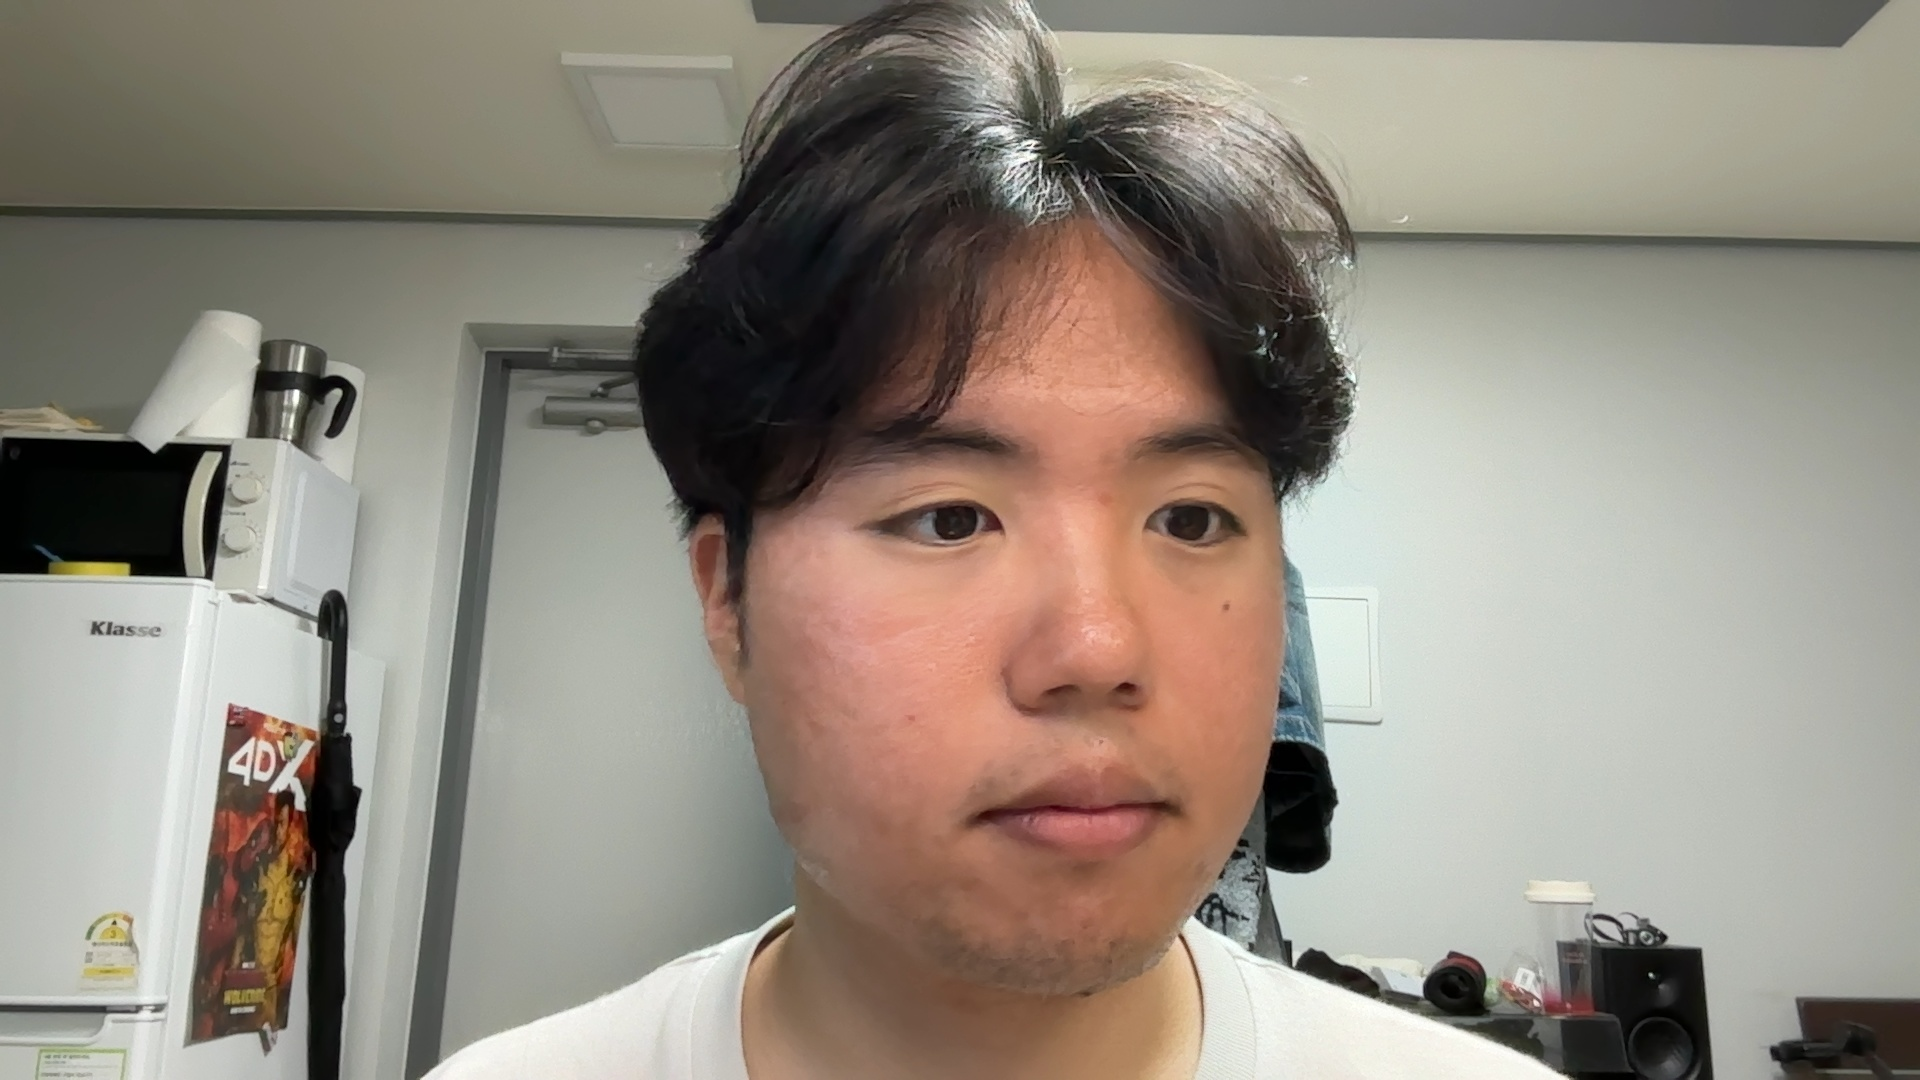
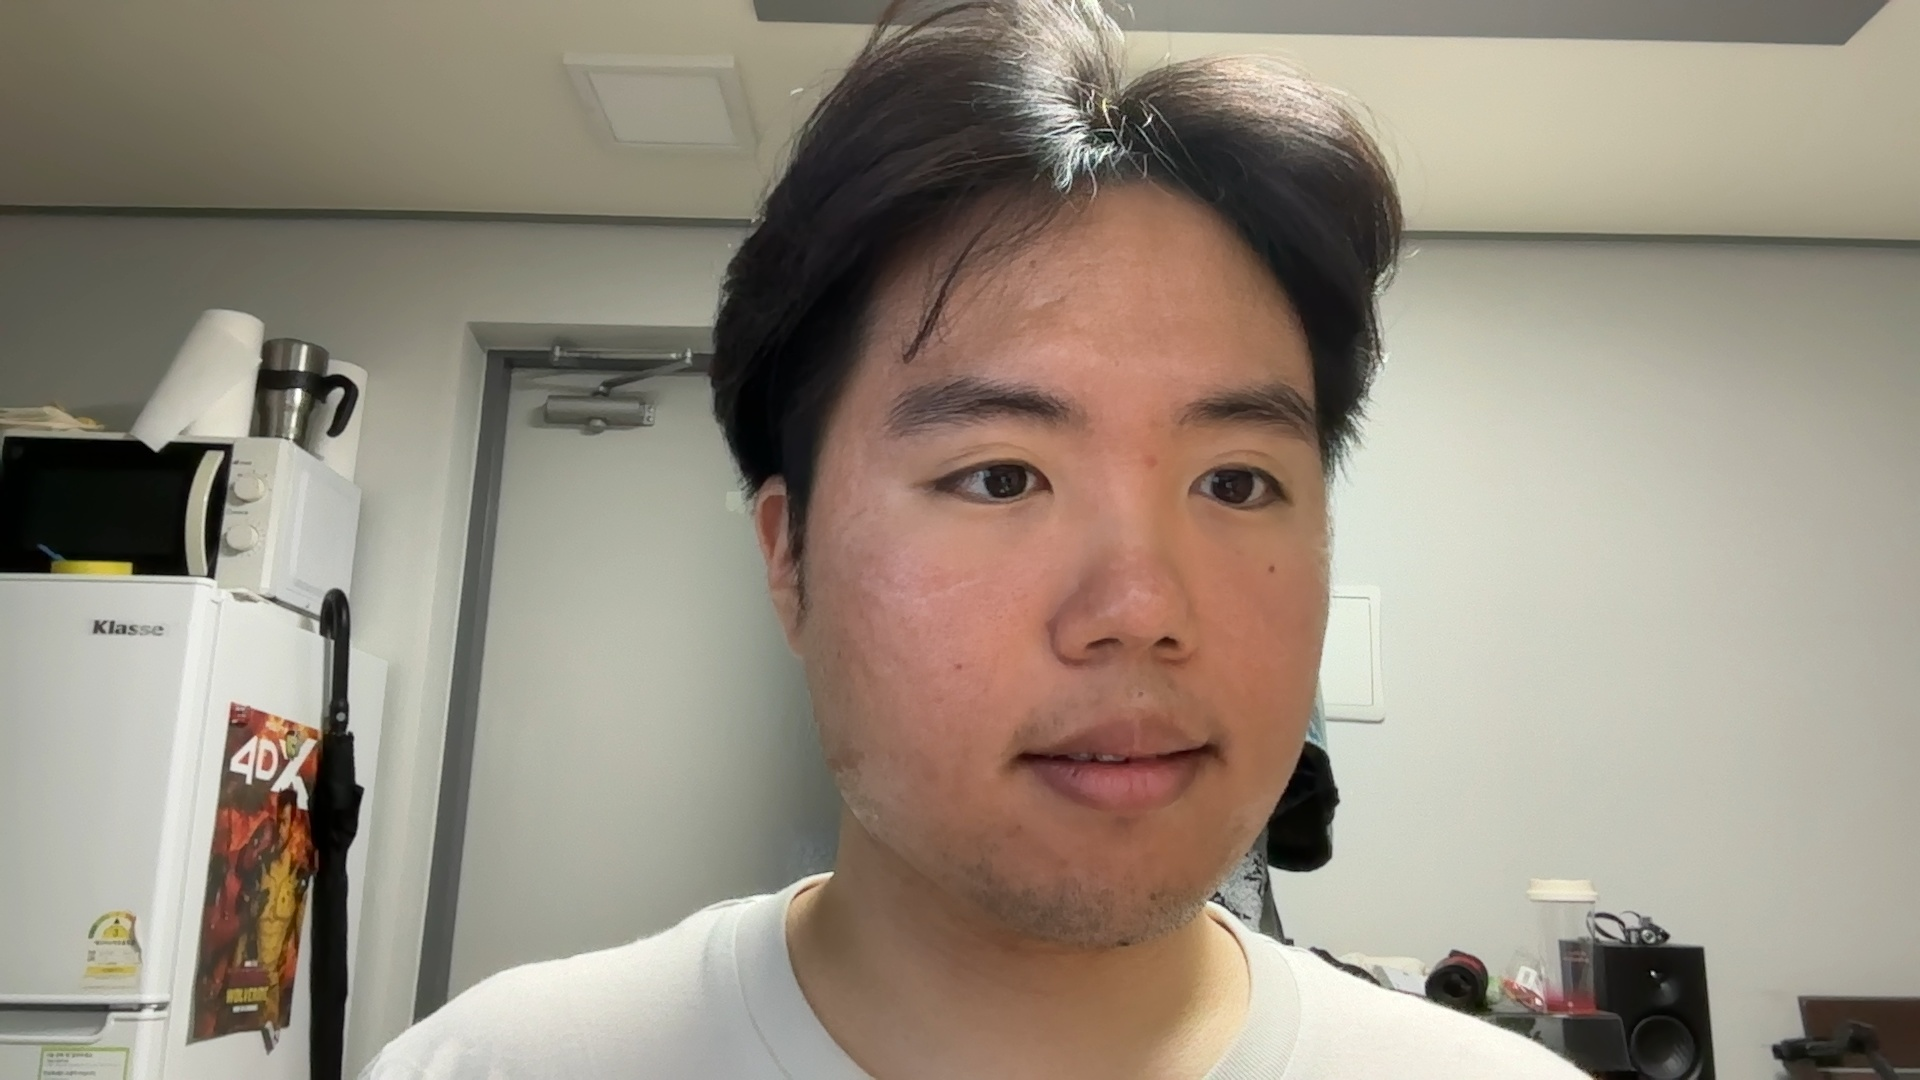
.

diff --git a/backEnd/face_Mesh.py b/backEnd/face_Mesh.py
@@ -1,50 +1,131 @@
 import cv2 as cv
 import mediapipe as mp
-
+from PIL import Image
+#MediaPipe 초기화
 mp_mesh=mp.solutions.face_mesh
 mp_drawing=mp.solutions.drawing_utils
 mp_styles=mp.solutions.drawing_styles
 
+#정지 이미지 읽기
+input_path = f'static/captured_clipping.jpg'
+image = cv.imread(input_path)
+
+#RGB 변환  why?-> openCV는 BRG순서로 읽지만 MediaPipe는 RGB순서로 읽는다.
+image = cv.cvtColor(image, cv.COLOR_BGR2RGB)
+
+#FaceMesh 객체 생성 why? -> 모델을 한번만 로딩하고 계속 재사용해서 매번 로딩되어 성능이 저하되는 일을 없앤다.
 #얼굴1개, 눈과 입의 랜드마크 더 정교하게, 얼굴 검출 신뢰도 0.5이상 일 땐 성공, 0.5이하 일 땐 실패
-mesh=mp_mesh.FaceMesh(max_num_faces=1, refine_landmarks=True, min_detection_confidence=0.5, min_tracking_confidence=0.5)
+with mp_mesh.FaceMesh(
+    static_image_mode=True, #정지 영상일 땐 꼭 True
+    max_num_faces=1,
+    refine_landmarks=True,
+    min_detection_confidence=0.5,
+    min_tracking_confidence=0.5
+)as mesh:
 
-cap=cv.VideoCapture(0)
-
-while True:
-    ret, frame = cap.read()
-    if not ret:
-        print("프레임 획득에 실패하여 루프를 나갑니다.")
-        break
-
-    res = mesh.process(cv.cvtColor(frame,cv.COLOR_BGR2RGB))
+    res = mesh.process(image)
 
     if res.multi_face_landmarks:
-        for landmarks in res.multi_face_landmarks:
-            mp_drawing.draw_landmarks(
-                image=frame,
-                landmark_list=landmarks,
-                connections=mp_mesh.FACEMESH_TESSELATION,
-                landmark_drawing_spec=None,
-                connection_drawing_spec=mp_styles.get_default_face_mesh_tesselation_style()
-            )
-            mp_drawing.draw_landmarks(
-                image=frame,
-                landmark_list=landmarks,
-                connections=mp_mesh.FACEMESH_CONTOURS,
-                landmark_drawing_spec=None,
-                connection_drawing_spec=mp_styles.get_default_face_mesh_contours_style()
-            )
-            mp_drawing.draw_landmarks(
-                image=frame,
-                landmark_list=landmarks,
-                connections=mp_mesh.FACEMESH_IRISES,
-                landmark_drawing_spec=None,
-                connection_drawing_spec=mp_styles.get_default_face_mesh_iris_connections_style()
-            )
+        h, w, _ = image.shape
+        face_landmarks = res.multi_face_landmarks[0]
+        #웃음 판단 지표
+        # 🎯 입꼬리 위치 추출
+        landmarks = face_landmarks.landmark
+        left_corner = landmarks[61]
+        right_corner = landmarks[291]
+        upper_lip = landmarks[13]
+        lower_lip = landmarks[14]
 
-    cv.imshow('MediaPipe Face Mesh',cv.flip(frame,1))
-    if cv.waitKey(5) == ord('q'):
-        break
+        lx, ly = int(left_corner.x * w), int (left_corner.y * h)
+        rx, ry = int(right_corner.x * w), int (right_corner.y * h)
+        ux, uy = int(upper_lip.x * w), int (upper_lip.y * h)
+        dx, dy = int(lower_lip.x * w), int (lower_lip.y * h)
 
-cap.release()
+        mouth_height = dy - uy
+        avg_corner_y = (ly + ry) / 2 #입꼬리의 중간값
+        center_y = (uy + dy) / 2    #입술에서 중간값
+
+        is_smiling = (avg_corner_y < center_y - 3) and (mouth_height > 5)
+        result_text = "Smiling" if is_smiling else "Not Smiling "
+
+
+        mp_drawing.draw_landmarks(
+            image=image,
+            landmark_list=face_landmarks,
+            connections=mp_mesh.FACEMESH_TESSELATION,
+            landmark_drawing_spec=None,
+            connection_drawing_spec=mp_styles.get_default_face_mesh_tesselation_style()
+        )
+        mp_drawing.draw_landmarks(
+            image=image,
+            landmark_list=face_landmarks,
+            connections=mp_mesh.FACEMESH_CONTOURS,
+            landmark_drawing_spec=None,
+            connection_drawing_spec=mp_styles.get_default_face_mesh_contours_style()
+        )
+        mp_drawing.draw_landmarks(
+            image=image,
+            landmark_list=face_landmarks,
+            connections=mp_mesh.FACEMESH_IRISES,
+            landmark_drawing_spec=None,
+            connection_drawing_spec=mp_styles.get_default_face_mesh_iris_connections_style()
+        )
+
+        # 결과 텍스트 출력
+        cv.putText(image, result_text, (30, 50), cv.FONT_HERSHEY_SIMPLEX, 1.2, (0, 255, 0), 3)
+
+
+#MediaPipe에서 처리한 사진은 RGB순이니깐 이미지를 저장할 땐 원래 BGR순으로 바꿔야 얼굴색이 재대로 나온다.
+image = cv.cvtColor(image, cv.COLOR_RGB2BGR)
+
+#이미지 저장
+output_path = f'static/clipped_FaceMesh.jpg'
+cv.imwrite(output_path, image)
+
+#이미지 확인용
+cv.imshow('Face Mesh', image)
+cv.waitKey(0)
 cv.destroyAllWindows()
+
+
+# 동적영상 일 때
+#cap=cv.VideoCapture(0)
+
+#while True:
+    #ret, frame = cap.read()
+    # if not ret:
+    #     print("프레임 획득에 실패하여 루프를 나갑니다.")
+    #     break
+
+#     res = mesh.process(cv.cvtColor(frame,cv.COLOR_BGR2RGB))
+#
+#     if res.multi_face_landmarks:
+#         for landmarks in res.multi_face_landmarks:
+#             mp_drawing.draw_landmarks(
+#                 image=frame,
+#                 landmark_list=landmarks,
+#                 connections=mp_mesh.FACEMESH_TESSELATION,
+#                 landmark_drawing_spec=None,
+#                 connection_drawing_spec=mp_styles.get_default_face_mesh_tesselation_style()
+#             )
+#             mp_drawing.draw_landmarks(
+#                 image=frame,
+#                 landmark_list=landmarks,
+#                 connections=mp_mesh.FACEMESH_CONTOURS,
+#                 landmark_drawing_spec=None,
+#                 connection_drawing_spec=mp_styles.get_default_face_mesh_contours_style()
+#             )
+#             mp_drawing.draw_landmarks(
+#                 image=frame,
+#                 landmark_list=landmarks,
+#                 connections=mp_mesh.FACEMESH_IRISES,
+#                 landmark_drawing_spec=None,
+#                 connection_drawing_spec=mp_styles.get_default_face_mesh_iris_connections_style()
+#             )
+#
+#     cv.imshow('MediaPipe Face Mesh',cv.flip(frame,1))
+#     if cv.waitKey(5) == ord('q'):
+#         break
+#
+# cap.release()
+# cv.destroyAllWindows()

diff --git a/backEnd/facesmoothing_integration.py b/backEnd/facesmoothing_integration.py
@@ -1,0 +1,38 @@
+# backEnd/facesmoothing_integration.py
+
+import os
+import sys
+
+# AutomaticFaceSmoothing 모듈 경로 추가
+sys.path.append(os.path.abspath(os.path.join(os.path.dirname(__file__), '..', 'AutomaticFaceSmoothing')))
+
+from facesmoothing import smoothing
+
+def apply_face_smoothing(input_path: str, d=9, sigma_color=75, sigma_space=75, extension=".jpg") -> str:
+    """
+    얼굴 피부 부드럽게 처리하고, 새 파일로 저장
+    :param input_path: 원본 이미지 경로d
+    :return: 보정된 이미지 경로
+    """
+    output_path = "static/clipped_smoothing.jpg"
+
+    from shutil import copyfile
+    copyfile(input_path, output_path)
+
+    smoothing.smoothing(output_path, d, sigma_color, sigma_space, extension)
+
+    return output_path
+
+
+#  단독 실행 시 테스트 코드
+if __name__ == "__main__":
+    print(" [TEST] 얼굴 보정 모듈 테스트 중...")
+
+    # 정적 테스트 이미지 경로 (절대경로 아님)
+    test_image = "static/captured_clipping.jpg"  # 상대경로나 직접입력한 정적 경로
+
+    if not os.path.exists(test_image):
+        print(f" 테스트 이미지가 없습니다: {test_image}")
+    else:
+        result_path = apply_face_smoothing(test_image)
+        print(f" 얼굴 보정 완료: {result_path}")

diff --git a/backEnd/app.py b/backEnd/app.py
@@ -2,6 +2,11 @@ from flask import Flask, render_template, Response, request, jsonify
 from camera import camera  # Camera 인스턴스를 가져옴
 import clipping as cp
 from face_parser import analyze_face
+import subprocess
+import os
+import requests
+
+
 
 app = Flask(__name__)
 
@@ -49,5 +54,26 @@ def background():
         return jsonify({'success': False, 'error': str(e)})
 
 
+@app.route('/generate-smile', methods=['POST'])
+def generate_smile():
+    try:
+        input_path = 'static/captured_clipping.jpg'
+        output_path = 'static/clipped_smile.jpg'
+
+        if not os.path.exists(input_path):
+            return jsonify({'error': '입력 이미지가 존재하지 않습니다.'}), 400
+
+        # 웃는 표정 생성 함수 호출
+        create_smile(input_path, output_path)
+
+        if not os.path.exists(output_path):
+            return jsonify({'error': '출력 이미지 생성 실패'}), 500
+
+        return jsonify({'success': True, 'output_image': output_path})
+
+    except Exception as e:
+        print(f"웃는 표정 생성 오류: {str(e)}")
+        return jsonify({'error': str(e)}), 500
+
 if __name__ == '__main__':
-    app.run(debug=True)
+   app.run(debug=True)

diff --git a/backEnd/clipping.py b/backEnd/clipping.py
@@ -35,3 +35,10 @@ def hsv_to_rgb_int(h: float, s: float, v: float) -> tuple[int, int, int]:
     r, g, b = colorsys.hsv_to_rgb(h, s, v)
     return int(r * 255), int(g * 255), int(b * 255)
 
+if __name__ == "__main__":
+    input_path = f'static/captured.jpg'
+    output_path = f'static/captured_clipping.jpg'
+
+    bg_removed = remove_background(input_path)
+    filled = fill_transparent_background(bg_removed, color_rgb=(255, 255, 255)) #일단 흰색 (나중에 변수로 받아서 퍼스널컬러에 맞게 변환)
+    filled.save(output_path, 'JPEG')

diff --git a/backEnd/test-api.py b/backEnd/test-api.py
@@ -1,0 +1,4 @@
+import requests
+
+res = requests.post('http://localhost:5000/generate-smile')
+print(res.json())
